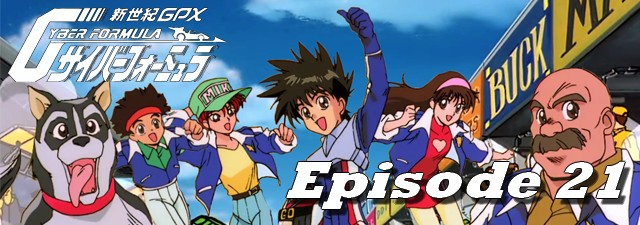
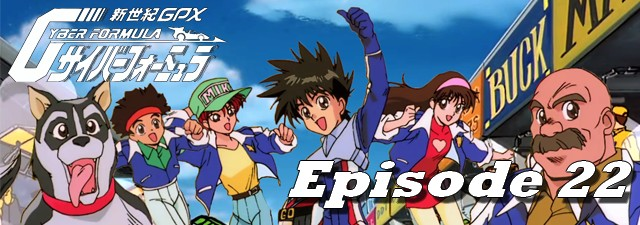
new release

Changed region(s): [[0.4375, 0.6844, 1.0, 0.9644]]

diff --git a/2015-12-30.html b/2015-12-30.html
@@ -1,0 +1,101 @@
+<!DOCTYPE html>
+<html lang="fr-FR">
+	<head>
+		<title>Future GPX Cyber Formula BD 22 vostfr | Nobluesky Fansub</title>
+		<meta charset="utf-8" />
+		<link rel="Shortcut Icon" type="image/x-icon" href="favicon.ico" />
+		<link href="fonts/fonts.css" rel="stylesheet" type="text/css" />
+		<link href="style.css" rel="stylesheet" type="text/css" media="screen" />
+		<link rel="stylesheet" href="menu.css" type="text/css" />
+		<script src="jquery.js" type="text/javascript"></script>
+		<script src="background-script.js" type="text/javascript"></script>
+	</head>
+<body>
+<div class="banner">
+	<a title="Nobluesky Fansub" href="index.html"> <img class="banner" alt="Nobluesky Fansub" title="Nobluesky Fansub" src="images/banner.png"/> </a>
+</div>
+<!-- end banner -->
+<div id="menu-wrapper">
+	<div id="menu">
+		<script type="text/javascript">
+		$( '#menu' ).load( 'menu.html' );
+		</script>
+		<noscript>Activez javascript pour voir le menu!</noscript>
+	</div>
+</div>
+<!-- end #menu -->
+<div id="page-wrapper">
+<div id="sidebar-wrapper">
+	<div id="sidebar">
+		<script type="text/javascript">
+		$( '#sidebar' ).load( 'sidebar.html' );
+		</script>
+	</div>
+	<!-- end #sidebar -->
+</div>
+	<div id="article">
+		<div id="content">
+			<div class="post">
+				<h1 class="title">Future GPX Cyber Formula BD 22 vostfr</h1>
+				<p class="meta"><span class="date">30 Décembre 2015</span><span class="posted">Posté par <a href="about.html#nobluesky">Nobluesky</a></span></p>
+				<div style="clear: both;">&nbsp;</div>
+				<div class="entry">
+					<img class="post-images" src="images/2015/news23.jpg" alt="" />
+					<p>Salut à tous!</p>
+					<p>Après ce suspense intenable, voici la suite!</p>
+					<p>J'ai légèrement revu ma façon de synchroniser les sous-titres afin de rendre la lecture plus agréable, j'espère que ça vous plaira.</p>
+					<p>Je vous donne rendez-vous en 2016, bon épisode et à la prochaine!</p>
+					<h3>Téléchargements et streaming</h3>
+					<p class="links dl"><a href="http://jheberg.net/captcha/fgpxcf-22-vostfr-bd/" class="button-dl">Jheberg</a></p>&nbsp; | &nbsp;
+					<p class="links dl"><a href="http://rutube.ru/video/1dc70d0075c3f29caea9f05f40115990/" class="button-dl">Rutube</a></p>&nbsp; | &nbsp;
+					<p class="links dl"><a href="https://mega.nz/#!bJEUSTDS!hEFIPD3OaA2fkQiPK_iLNSrJn-f5nv_BmZSYgmkeOIY" class="button-dl">Mega</a></p>
+					<h3>Commentaires</h3>
+					<div id="disqus_thread"></div>
+					<script type="text/javascript">
+						/* * * CONFIGURATION VARIABLES: EDIT BEFORE PASTING INTO YOUR WEBPAGE * * */
+						var disqus_shortname = 'noblueskyfansub'; // required: replace example with your forum shortname
+
+						/* * * DON'T EDIT BELOW THIS LINE * * */
+						(function() {
+							var dsq = document.createElement('script'); dsq.type = 'text/javascript'; dsq.async = true;
+							dsq.src = '//' + disqus_shortname + '.disqus.com/embed.js';
+							(document.getElementsByTagName('head')[0] || document.getElementsByTagName('body')[0]).appendChild(dsq);
+						})();
+					</script>
+					<noscript>Activez javascript pour voir les commentaires.</noscript>
+					<a href="http://disqus.com" class="dsq-brlink">commentaires propulsés par <span class="logo-disqus">Disqus</span></a>
+				</div>
+			</div>
+			<div style="clear: both;">&nbsp;</div>
+		</div>
+		<!-- end #content -->
+		<div style="clear: both;">&nbsp;</div>
+	</div>
+</div>
+<!-- end #page -->
+<script type="text/javascript">
+$(window).scroll(function() {
+    if ($(this).scrollTop() < 1000) {
+        $("#footer").hide();
+    }
+    else {
+        $("#footer").show();
+    }
+});
+$(window).scroll(function() {
+  if ($(this).scrollTop() < 1000) {
+    $("footer").slideUp();
+      }
+  else {
+    $("footer").slideDown();
+      }
+});		
+</script>
+<div id="footer">
+	<script type="text/javascript">
+	$( '#footer' ).load( 'footer.html' );
+	</script>
+</div>
+<!-- end #footer -->
+</body>
+</html>

diff --git a/page2.html b/page2.html
@@ -31,7 +31,7 @@
 	<div class="slider-wrapper theme-default">
 		<div class="ribbon"></div>
 		<div id="slider" class="nivoSlider">
-			<a href="2015-12-21.html"><img src="images/img01.jpg" alt="" /></a><img src="images/img02.jpg" alt="" />
+			<a href="2015-12-30.html"><img src="images/img01.jpg" alt="" /></a><img src="images/img02.jpg" alt="" />
 		</div>
 	</div>
 <script type="text/javascript">
@@ -50,6 +50,20 @@
 </div>
 	<div id="feed">
 		<div id="content">
+			<div class="post">
+				<h1 class="title"><a href="2015-11-24.html">Future GPX Cyber Formula BD 17 vostfr</a></h1>
+				<p class="meta"><span class="date">24 Novembre 2015</span><span class="posted">Posté par <a href="about.html#nobluesky">Nobluesky</a></span></p>
+				<p><a href="http://nobluesub.com/2015-11-24.html#disqus_thread">Commentaires</a></p>
+				<div style="clear: both;">&nbsp;</div>
+				<div class="entry">
+					<img class="post-images" src="images/2015/news18.jpg" alt="" />
+					<p>Bonsoir à tous!</p>
+					<p>C'est à nouveau parti pour avaler les kilomètres avec la Cyber Formule!</p>
+					<p>Toute l'équipe se prépare pour la course suivante, mais attention, il faut garder le moral des troupes pour avancer!</p>
+					<p>Quoi de mieux que de la bonne musique pour ce faire? Vous pouvez même retrouver...</p>
+					<p class="links"><a href="2015-11-24.html" class="button">Lire la suite</a></p>
+				</div>
+			</div>
 			<div class="post">
 				<h1 class="title"><a href="2015-11-15.html">Future GPX Cyber Formula BD 16 vostfr</a></h1>
 				<p class="meta"><span class="date">15 Novembre 2015</span><span class="posted">Posté par <a href="about.html#nobluesky">Nobluesky</a></span></p>
@@ -101,19 +115,6 @@
 					<img class="post-images" src="images/2015/news14.jpg" alt="" />
 					<p>C'est le <del style="color:red;">Père Noël</del> <del style="color:red;">Mort-vivant</del> Nobluesky qui vous parle!</p><p>Me revoici après une longue absence forcée car ma santé m'a joué un (très) sérieux tour, suivie de près par mon modem ADSL (moins grave^^), et c'est avec grand plaisir que je reviens vous proposer ce nouvel épisode...</p>
 					<p class="links"><a href="2015-10-18.html" class="button">Lire la suite</a></p>
-				</div>
-			</div>
-			<div class="post">
-				<h1 class="title"><a href="2015-08-17.html">Future GPX Cyber Formula BD 12 vostfr</a></h1>
-				<p class="meta"><span class="date">17 Août 2015</span><span class="posted">Posté par <a href="about.html#nobluesky">Nobluesky</a></span></p>
-				<p><a href="http://nobluesub.com/2015-08-17.html#disqus_thread">Commentaires</a></p>
-				<div style="clear: both;">&nbsp;</div>
-				<div class="entry">
-					<img class="post-images" src="images/2015/news13.jpg" alt="" />
-					<p>Bonjour!</p>
-					<p>Malgré quelques soucis pour l'envoi de cet épisode, le voici enfin en ligne, après plus de cinq jours à tenter de l'uploader^^</p>
-					<p>Hayato a besoin de réfléchir un peu après son échec...</p>
-					<p class="links"><a href="2015-08-17.html" class="button">Lire la suite</a></p>
 				</div>
 			</div>
 			<div id="button-page-wrapper">

diff --git a/index.html b/index.html
@@ -35,7 +35,7 @@
 	<div class="slider-wrapper theme-default">
 		<div class="ribbon"></div>
 		<div id="slider" class="nivoSlider">
-			<a href="2015-12-21.html"><img src="images/img01.jpg" alt="" /></a><img src="images/img02.jpg" alt="" />
+			<a href="2015-12-30.html"><img src="images/img01.jpg" alt="" /></a><img src="images/img02.jpg" alt="" />
 		</div>
 	</div>
 <script type="text/javascript">
@@ -60,6 +60,19 @@
 				<div style="clear: both;">&nbsp;</div>
 				<div class="entry">
 					<p>Bienvenue sur le site de la Nobluesky Fansub!</p>
+				</div>
+			</div>
+			<div class="post">
+				<h1 class="title"><a href="2015-12-30.html">Future GPX Cyber Formula BD 22 vostfr</a></h1>
+				<p class="meta"><span class="date">30 Décembre 2015</span><span class="posted">Posté par <a href="about.html#nobluesky">Nobluesky</a></span></p>
+				<p><a href="http://nobluesub.com/2015-12-30.html#disqus_thread">Commentaires</a></p>
+				<div style="clear: both;">&nbsp;</div>
+				<div class="entry">
+					<img class="post-images" src="images/2015/news23.jpg" alt="" />
+					<p>Salut à tous!</p>
+					<p>Après ce suspense intenable, voici la suite!</p>
+					<p>J'ai légèrement revu ma façon de synchroniser les sous-titres afin de rendre la lecture plus agréable...</p>
+					<p class="links"><a href="2015-12-30.html" class="button">Lire la suite</a></p>
 				</div>
 			</div>
 			<div class="post">
@@ -111,20 +124,6 @@
 					<p>Il fait gris dehors? Alors retournez au Brésil, dans la chaleur d'un cockpit de Cyber Formule!</p>
 					<p>Le problème, c'est que ce n'est pas sans danger... et c'est ça qu'on aime, les aventures avec de vrais méchants...</p>
 					<p class="links"><a href="2015-11-30.html" class="button">Lire la suite</a></p>
-				</div>
-			</div>
-			<div class="post">
-				<h1 class="title"><a href="2015-11-24.html">Future GPX Cyber Formula BD 17 vostfr</a></h1>
-				<p class="meta"><span class="date">24 Novembre 2015</span><span class="posted">Posté par <a href="about.html#nobluesky">Nobluesky</a></span></p>
-				<p><a href="http://nobluesub.com/2015-11-24.html#disqus_thread">Commentaires</a></p>
-				<div style="clear: both;">&nbsp;</div>
-				<div class="entry">
-					<img class="post-images" src="images/2015/news18.jpg" alt="" />
-					<p>Bonsoir à tous!</p>
-					<p>C'est à nouveau parti pour avaler les kilomètres avec la Cyber Formule!</p>
-					<p>Toute l'équipe se prépare pour la course suivante, mais attention, il faut garder le moral des troupes pour avancer!</p>
-					<p>Quoi de mieux que de la bonne musique pour ce faire? Vous pouvez même retrouver...</p>
-					<p class="links"><a href="2015-11-24.html" class="button">Lire la suite</a></p>
 				</div>
 			</div>
 			<div id="button-page-wrapper">

diff --git a/stream/futuregpxcf22.html b/stream/futuregpxcf22.html
@@ -1,0 +1,31 @@
+<!DOCTYPE html>
+<html lang="fr">
+<head>
+	<title>Streaming Nobluesub | Lecture en cours</title>
+	<link rel="Shortcut Icon" type="image/x-icon" href="favicon.ico" />
+	<meta charset="UTF-8" />
+	<link rel="stylesheet" href="style.css"/>
+	<script src="jquery.js" type="text/javascript"></script>
+</head>
+
+<body>
+<div id="feed">
+	<a title="Nobluesky stream" href="index.html"> <img id="banner" alt="Nobluesky Stream" title="Nobluesky Stream | Accueil" src="images/banner.png"/> </a>
+		<p><a href="futuregpxcf.html">Retour à la liste des épisodes</a></p>
+			<video id="player" controls alt="video">
+				<source src="http://stream.nobluesub.com:17970/share/GWs7yRgMvaanMyQI/22.mp4" type="video/mp4">
+					<p>Désolé, votre navigateur est ancien et/ou ne supporte pas html5.</p>
+				</object>
+			</video>
+<p id="copy">Design par Nobluesky</p>
+</div>
+<!-- end feed -->
+<div id="sidebar">
+<script type="text/javascript">
+		$( '#sidebar' ).load( 'sidebar.html' );
+</script>
+<noscript>Activez javascript pour voir tout le contenu!</noscript>
+</div>
+<!-- end sidebar -->
+</body>
+</html>

diff --git a/future-gpx-cyber-formula.html b/future-gpx-cyber-formula.html
@@ -153,6 +153,11 @@
 					<p class="links dl"><a href="http://jheberg.net/captcha/fgpxcf-21-vostfr-bd/" class="button-dl">Jheberg</a></p>&nbsp; | &nbsp;
 					<p class="links dl"><a href="http://rutube.ru/video/7f2a480ed9a327a01c42718f86a5807d/" class="button-dl">Rutube</a></p>&nbsp; | &nbsp;
 					<p class="links dl"><a href="https://mega.nz/#!ncUEUJZJ!yW6MYrlfpDCT1s-C3jgRDWvUEjxuL4kWuvk7VdvDWOs" class="button-dl">Mega</a></p>
+					<br>
+					Episode 22 : 
+					<p class="links dl"><a href="http://jheberg.net/captcha/fgpxcf-22-vostfr-bd/" class="button-dl">Jheberg</a></p>&nbsp; | &nbsp;
+					<p class="links dl"><a href="http://rutube.ru/video/1dc70d0075c3f29caea9f05f40115990/" class="button-dl">Rutube</a></p>&nbsp; | &nbsp;
+					<p class="links dl"><a href="https://mega.nz/#!bJEUSTDS!hEFIPD3OaA2fkQiPK_iLNSrJn-f5nv_BmZSYgmkeOIY" class="button-dl">Mega</a></p>
 					
 					<h4>Version SD (640x480) non remasterisée (abandonnée)</h4>
 					Episode 01 : 

diff --git a/archives.html b/archives.html
@@ -45,6 +45,7 @@
 					<div>
 					 <!-- here comes spoiler content --> 
 					<div style="clear: both;">&nbsp;</div>
+					<p><a href="2015-08-17.html" target="_blank" >Future GPX Cyber Formula BD 12 vostfr</a></p>
 					<p><a href="2015-06-27.html" target="_blank" >Future GPX Cyber Formula BD 11 vostfr</a></p>
 					<p><a href="2015-06-20.html" target="_blank" >Future GPX Cyber Formula BD 10 vostfr</a></p>
 					<p><a href="2015-06-13.html" target="_blank" >Pack Future GPX Cyber Formula BD 08-09 vostfr</a></p>

diff --git a/sidebar.html b/sidebar.html
@@ -29,9 +29,9 @@
 		<li>
 			<h2>Avancements</h2>
 			<ul>
-				<li>Future GPX Cyber Formula BD 22 : 65%
+				<li>Future GPX Cyber Formula BD 22 : 100%
 					<div class="progress-bar blue stripes" title="Time : 75%; Trad : 50%; Check/Qcheck : 65%; Enco : 75%; Upload en cours : 80%" >
-					<span style="width: 75%"></span>
+					<span style="width: 100%"></span>
 					</div>
 				</li>
 			</ul>

diff --git a/stream/futuregpxcf.html b/stream/futuregpxcf.html
@@ -33,6 +33,7 @@
 	<p><a href="futuregpxcf19.html">Episode 19</a></p>
 	<p><a href="futuregpxcf20.html">Episode 20</a></p>
 	<p><a href="futuregpxcf21.html">Episode 21</a></p>
+	<p><a href="futuregpxcf22.html">Episode 22</a></p>
 	<br>
 	<br>
 <p id="copy">Design par Nobluesky</p>
